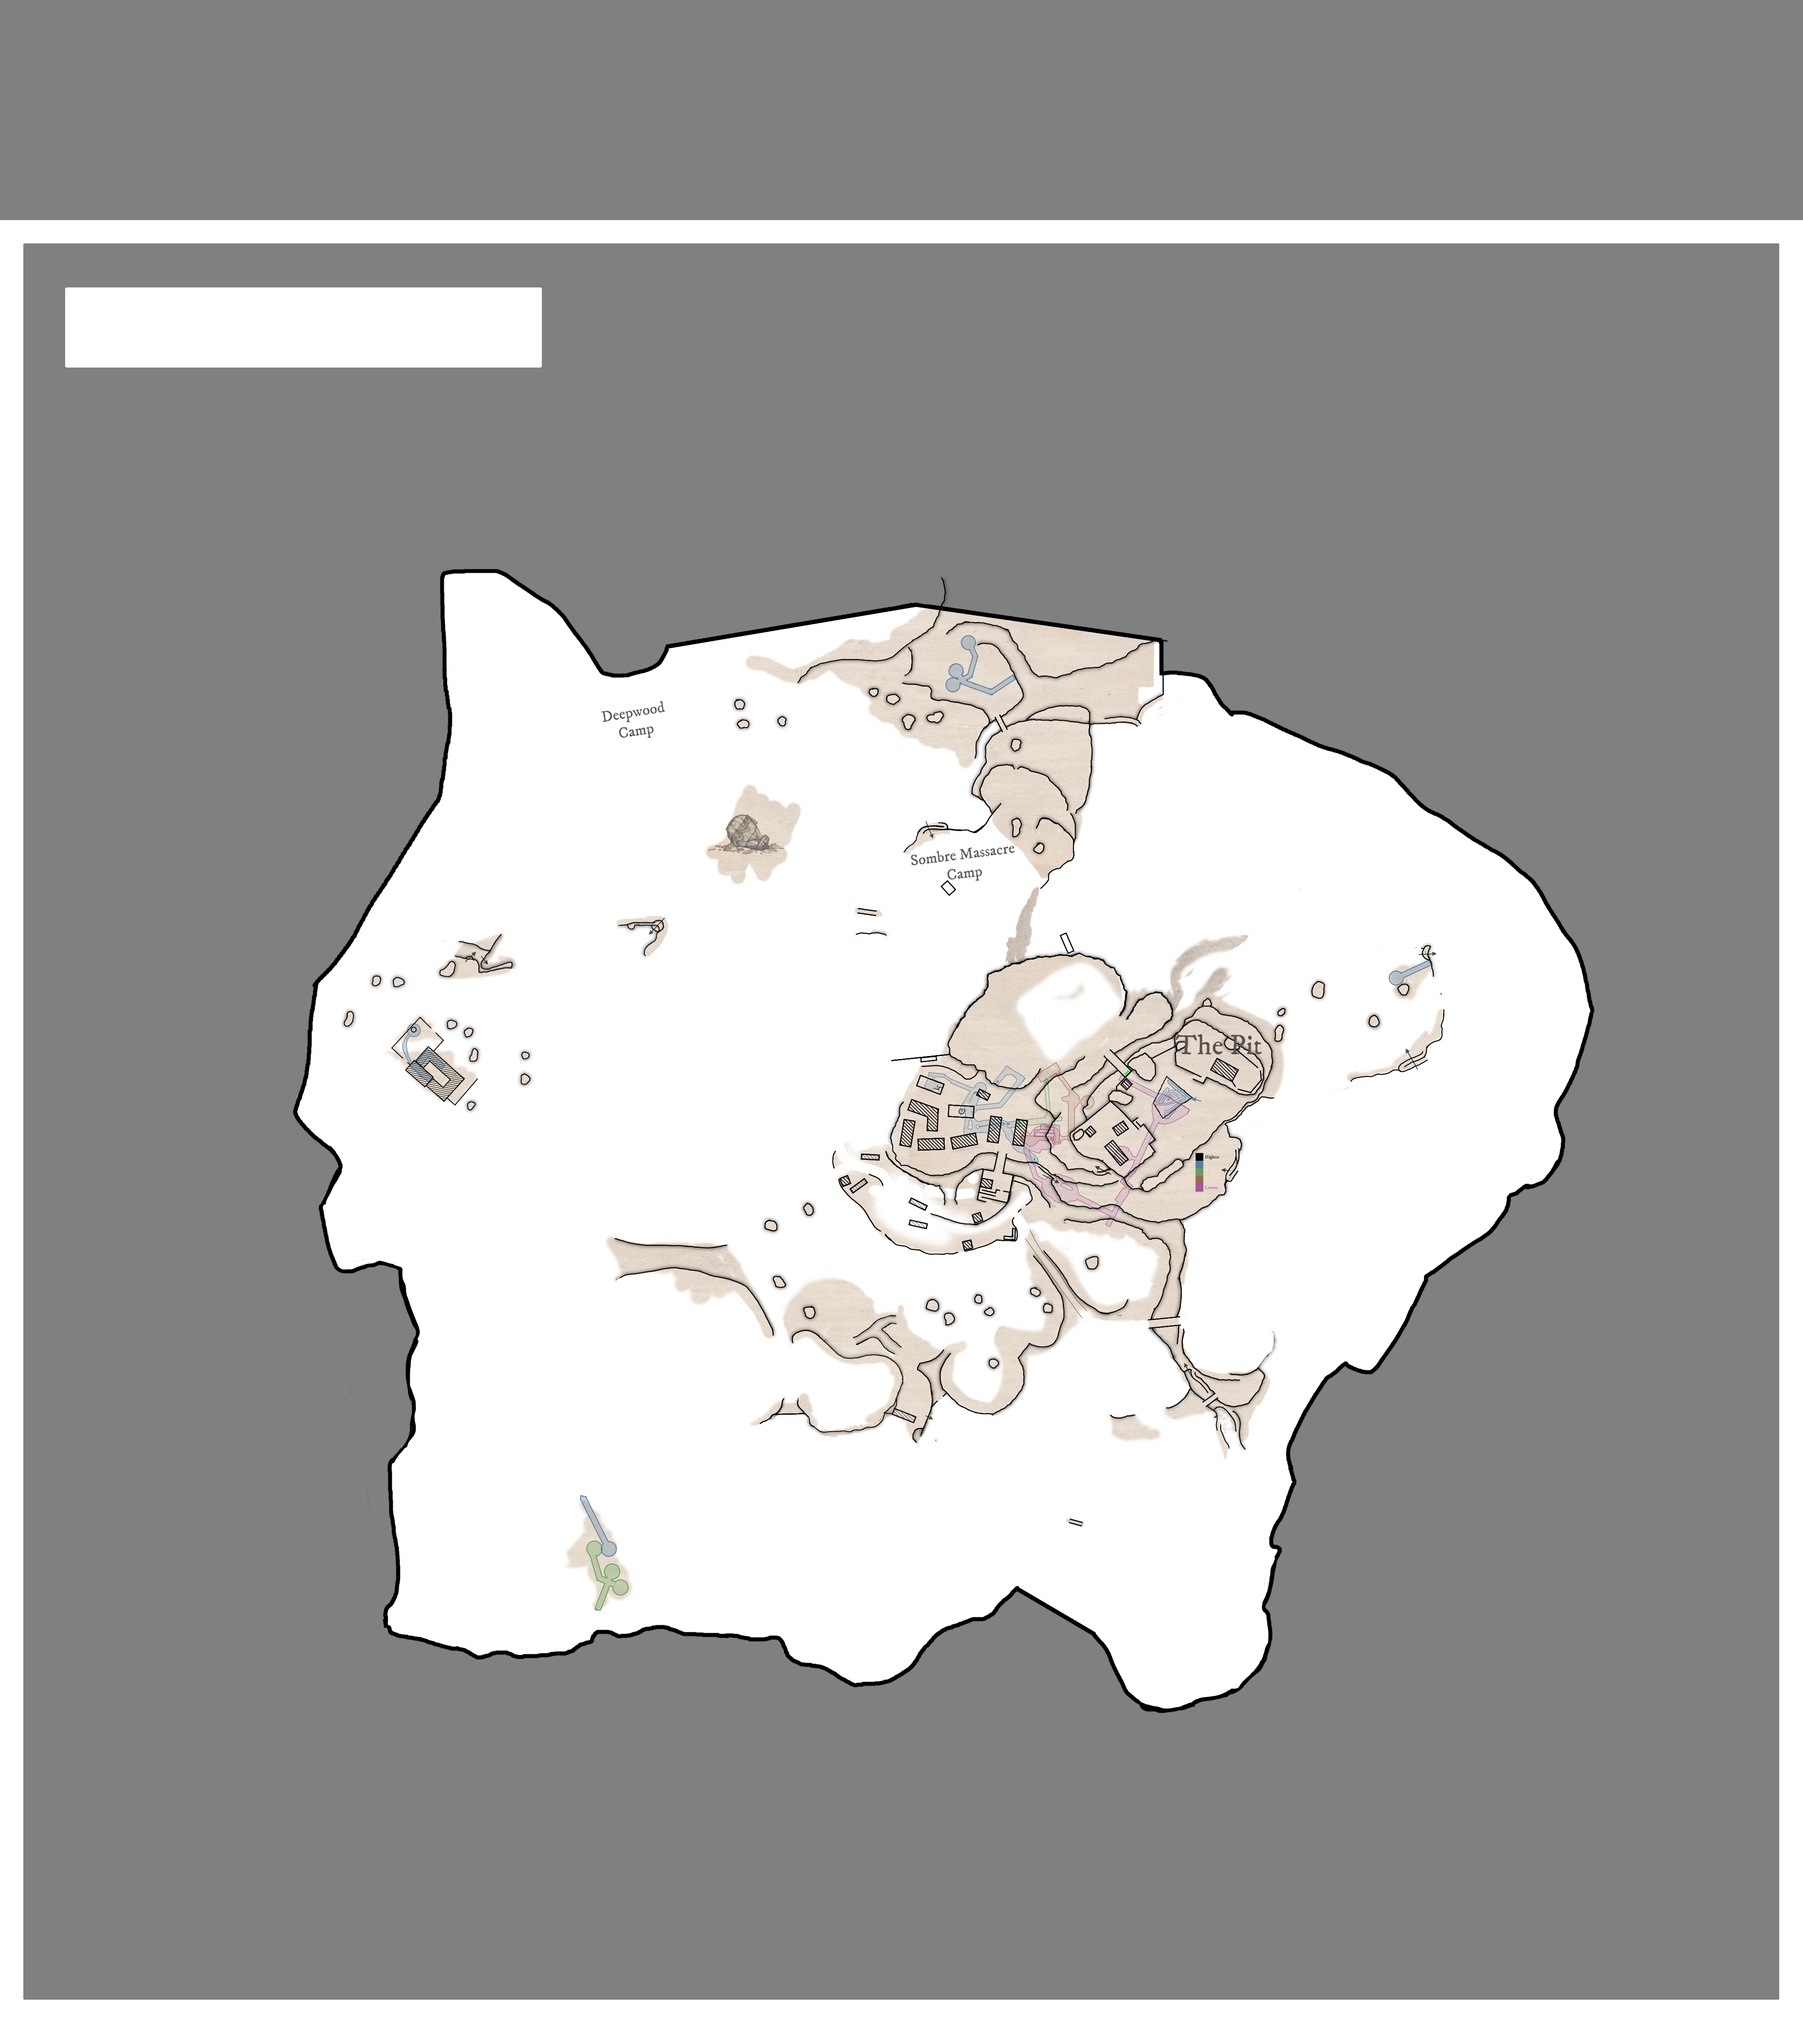
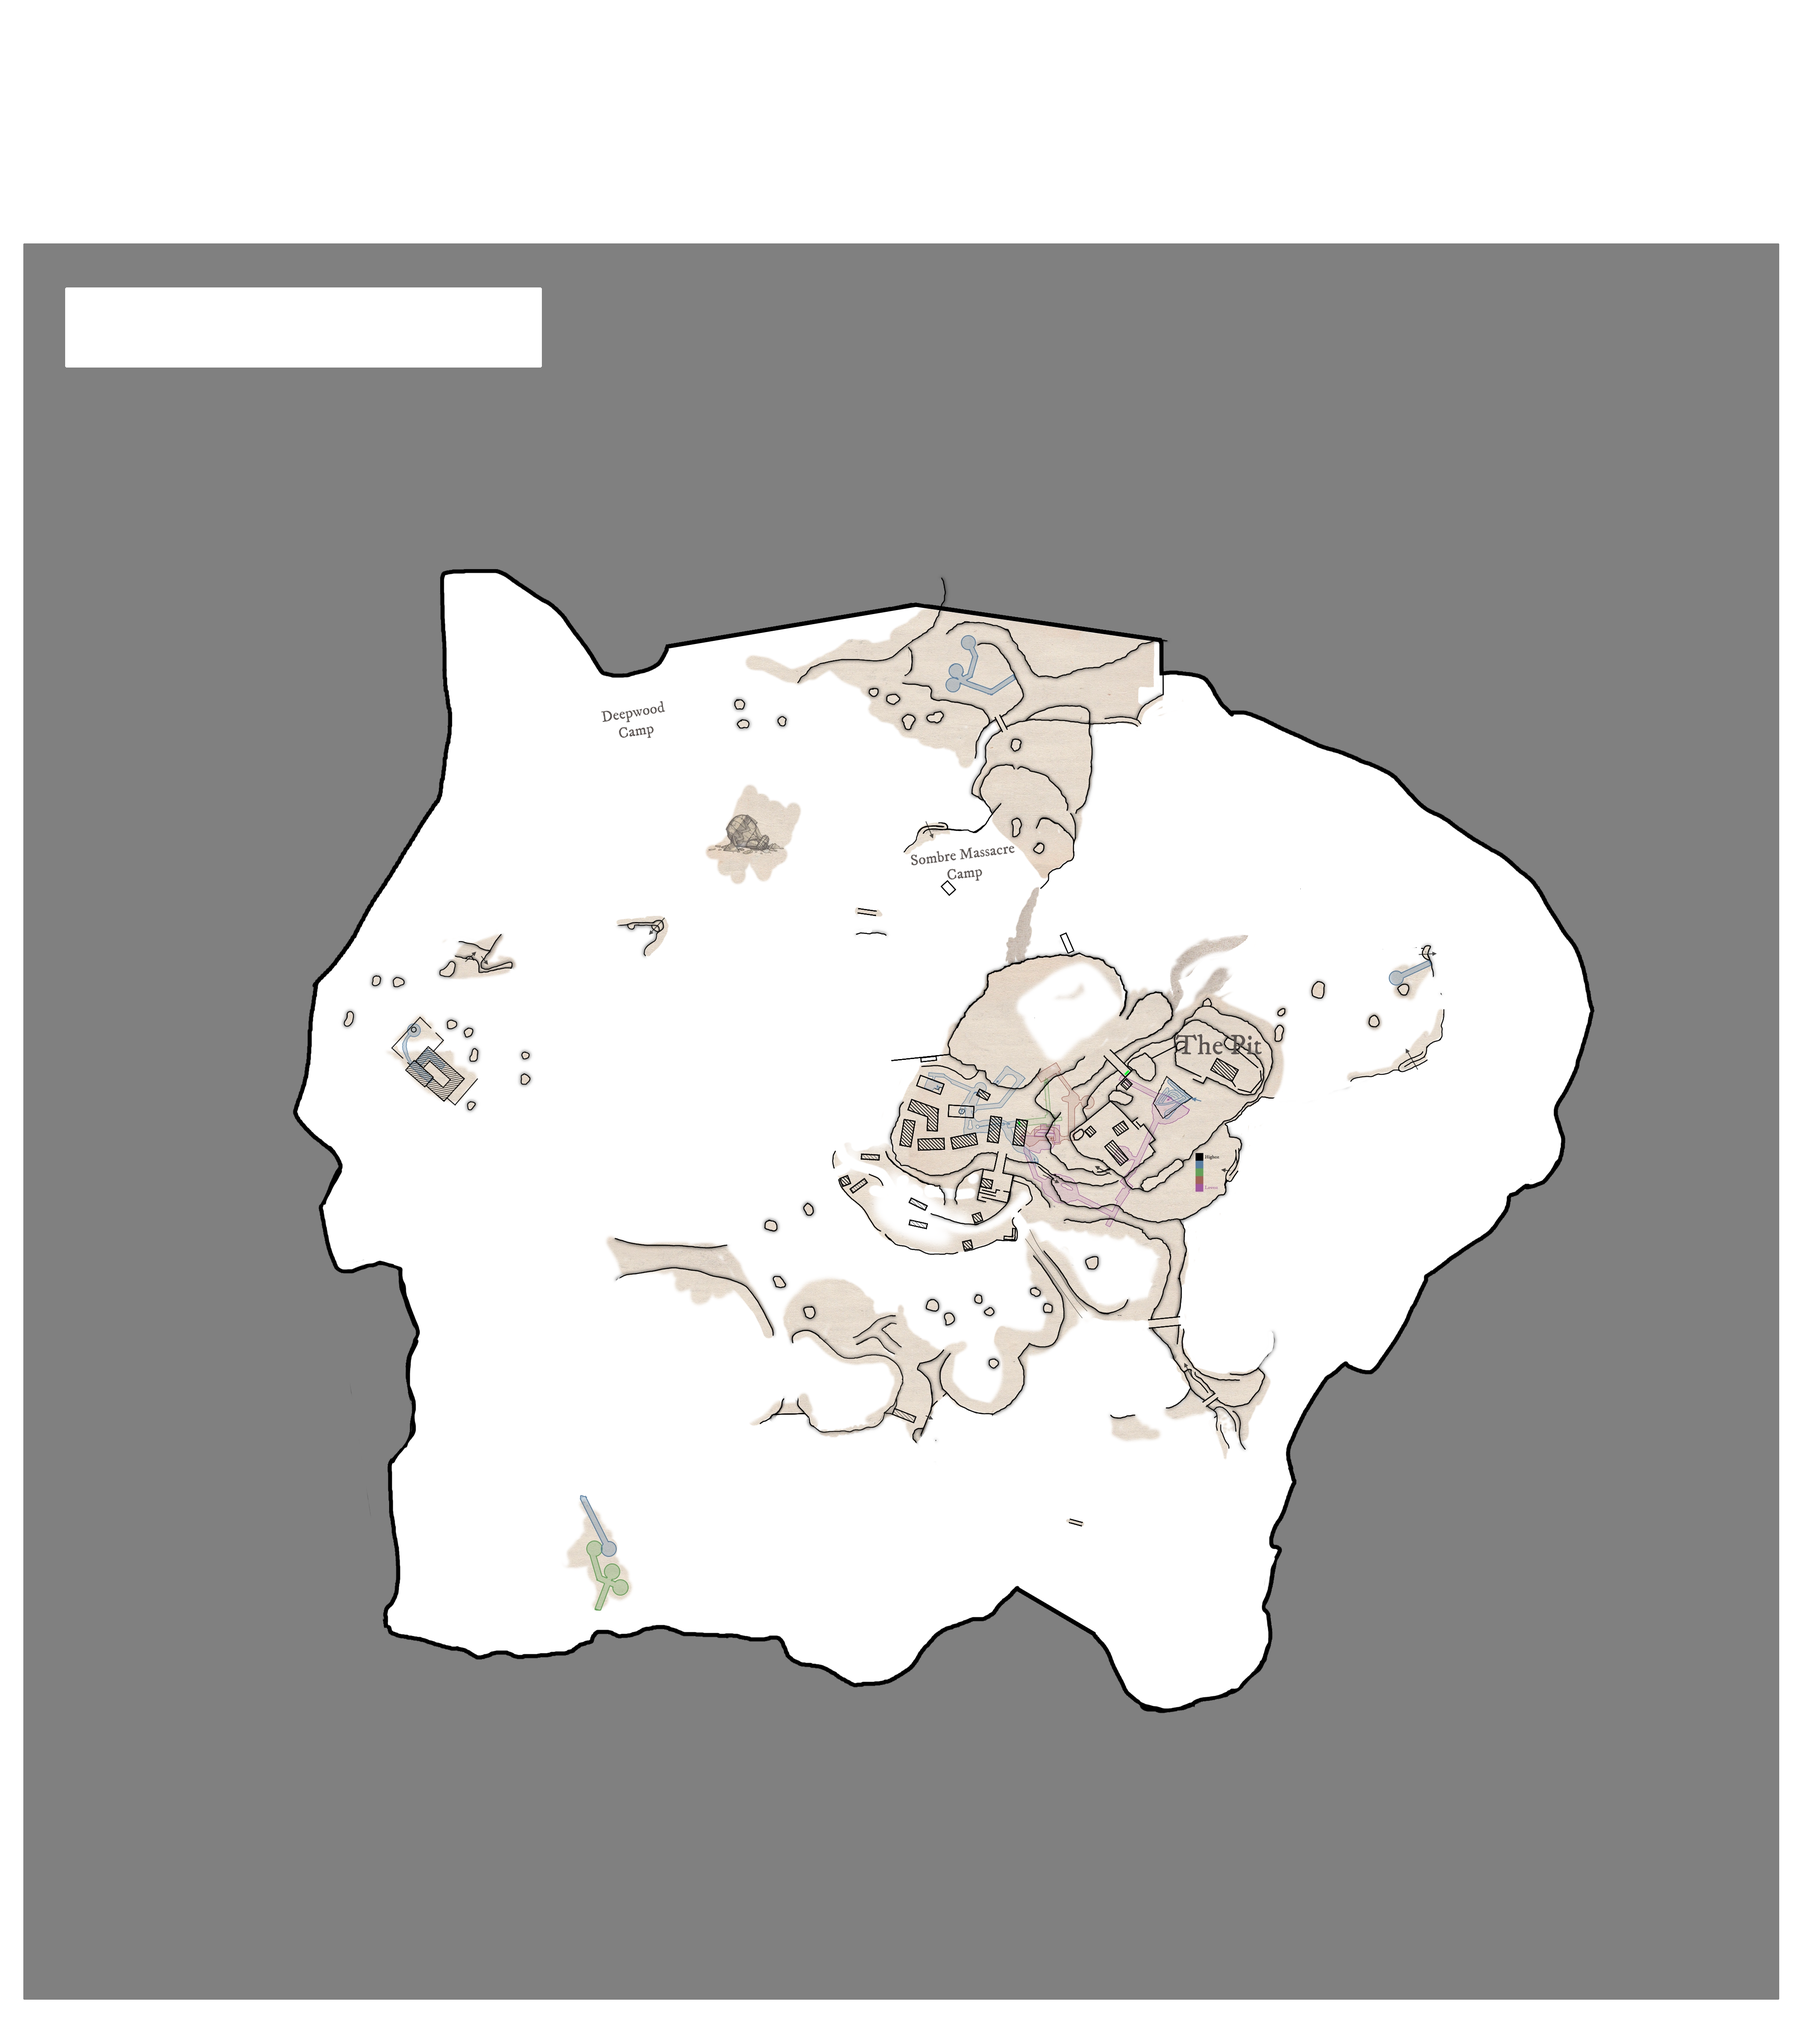
changes

Changed region(s): [[0.0, 0.0, 1.0, 0.1245]]

diff --git a/js/marker.js b/js/marker.js
@@ -176,7 +176,7 @@ class Marker {
             let hidden = 0;
             document.querySelectorAll("#tooltip .filterable[data-item]").forEach(el => {
                 const query = controls.searchBox.value.toLowerCase();
-                const rangeValue = [1/32, 1/128, 1/1000, 1/10000, 1/Infinity][controls.chanceRange.value];
+                const rangeValue = [1/32, 1/128, 1/1024, 1/8192, 1/Infinity][controls.chanceRange.value];
                 const item = data.ITEMS[el.dataset.item];
                 if ((item?.DisplayName?.toLowerCase()?.includes(query) || item?.ItemName?.toLowerCase()?.includes(query))
                      && Number(el.dataset.percent) / 100 >= rangeValue) {
@@ -399,10 +399,11 @@ class Marker {
     }
 
     #percentColor(percent) {
-        const ratio = Math.trunc(100 / Number(percent));
+        const ratio = 100 / Number(percent);
         if (isNaN(ratio) || !isFinite(ratio)) return "rgb(0, 0, 0)";
-        if (ratio >= 10000) return "rgb(181 0 0)"; // Extremely rare
-        if (ratio >= 1000) return "rgb(255, 98, 98)"; // Very rare
+        if (ratio === 1) return "rgb(175, 238, 238)"; // Always
+        if (ratio >= 8192) return "rgb(181 0 0)"; // Extremely rare
+        if (ratio >= 1024) return "rgb(255, 98, 98)"; // Very rare
         if (ratio >= 128) return "rgb(255, 134, 60)"; // Rare
         if (ratio >= 32) return "rgb(255, 237, 76)"; // Uncommon
         return "rgb(86, 225, 86)"; // Common
@@ -550,7 +551,7 @@ class Marker {
         if (this.#row.AISpawner) {
             rows.push(`<tr><td><strong>AISpawner</strong></td><td>${this.#row.AISpawner}</td></tr>`)
         }
-        let tableData = this.tableData;
+        const tableData = this.tableData;
         if (tableData) {
             if (this.#class === "npc") {
                 rows.push(`<tr><td style="text-wrap:nowrap"><strong>Est. Markup</strong></td><td>x4.2</td></tr>`)
@@ -565,7 +566,9 @@ class Marker {
                     rows.push(`<tr><td colspan="2" class="loot-subtable"><table class="marker-info-table table table-sm table-striped mb-0">${subrows.join("")}</table></td></tr>`)
                 }
             })
-            rows.push(this.#valueRow("Est. Avg. Value", this.#estValue.loot))
+        }
+        if (this.estValue) {
+            rows.push(this.#valueRow("Est. Avg. Value", this.estValue))
         }
         const hasItems = rows.some(row => row.includes('class="loot-row"'));
         return `<div class="marker-tooltip${hasItems ? " has-items" : ""}"><h5>${this.#readable.displayName}</h5><div class="table-responsive" style="max-height: 200px"><table class="marker-info-table table table-sm table-striped mb-0">${rows.join("")}</table></div></div>`
@@ -585,7 +588,7 @@ class Marker {
             child.anchor.set(0.5);
             child.x = sprite.x;
             child.y = sprite.y;
-            child.zIndex = sprite.zIndex + 1;
+            child.zIndex = 1000;
             child._screenSize = 48
             this.#container.addChild(child);
 
@@ -631,6 +634,7 @@ class Marker {
 
                 // Greater than 6 silver mark as good
                 if (this.estValue > 600) {
+                    this.#tint = 0xFFF0B2;
                     this.#zIndex = 100;
                     this.#descriptors.push("good");
                 }

diff --git a/js/data.js b/js/data.js
@@ -221,7 +221,7 @@ lootTables.forEach(row => {
 
 console.log("Loaded loot tables:", LOOT_TABLES);
 
-function combineTables(sources) {
+function combineTables(sourceName, sources) {
     const combinedByObjectName = new Map()
 
     sources.forEach(source => {
@@ -233,6 +233,7 @@ function combineTables(sources) {
         const copy = []
         copy.push(...table.map(entry => ({ ...entry })));
         copy.forEach(entry => {
+            const percentNote = Number(source["WeightPercent"]).toFixed(2) + "% " + Number(entry["WeightPercent"]).toFixed(2) + "% " + source["TableName"];
             const weight = 1000 * (Number(entry["WeightPercent"] || 1) / 100) * ((Number(source["WeightPercent"]) || 1) / 100)
             const objectName = entry["ObjectName"]
 
@@ -240,7 +241,8 @@ function combineTables(sources) {
                 combinedByObjectName.set(objectName, {
                     ...entry,
                     Weight: weight,
-                    TableName: entry["TableName"] ? [entry["TableName"]] : []
+                    TableName: entry["TableName"] ? [entry["TableName"]] : [],
+                    Notes: percentNote ? [percentNote] : [],
                 })
                 return
             }
@@ -249,7 +251,7 @@ function combineTables(sources) {
             existing["Weight"] = (Number(existing["Weight"]) || 0) + weight
 
             if (entry["TableName"] && !existing["TableName"].includes(entry["TableName"])) {
-                existing["TableName"].push(entry["TableName"])
+                existing["Notes"].push(entry["Notes"])
             }
         })
     })
@@ -282,7 +284,7 @@ lootSources.forEach(row => {
 lootSources.forEach(row => {
     if (!row.SourceName) return;
     console.log("Processing loot source:", row.SourceName);
-    if (!LOOT_SOURCE_TABLES[row.SourceName]) LOOT_SOURCE_TABLES[row.SourceName] = combineTables(LOOT_SOURCES[row.SourceName]);
+    if (!LOOT_SOURCE_TABLES[row.SourceName]) LOOT_SOURCE_TABLES[row.SourceName] = combineTables(row.SourceName, LOOT_SOURCES[row.SourceName]);
 })
 
 const aiTables = await getAiCsvData("./data/ai_tables.csv?v=" + elements.metaVersion);

diff --git a/js/main.js b/js/main.js
@@ -90,6 +90,7 @@ import {controls, dom_ready, elements, refreshLabels} from "dom";
 
         loadMultiselectF(controls.lootSourceSelect, marker => {
             if (!(marker.row.LootSource || "container" === marker.class)) return;
+            if ("loose" === marker.class) return;
             return marker.row.LootSource
         }, lootTable => {
             const largest = markers
@@ -302,7 +303,7 @@ import {controls, dom_ready, elements, refreshLabels} from "dom";
         updateChanceText();
         applySearch();
     });
-    const chanceText = ["Common <= 1/32", "Uncommon <= 1/128", "Rare <= 1/1,000", "Very Rare <= 1/10k", "Everything"]
+    const chanceText = ["Common <= 1/32", "Uncommon <= 1/128", "Rare <= 1/1,024", "Very Rare <= 1/8,192", "Everything"]
     const updateChanceText = () => elements.divChanceRange.innerHTML = chanceText[controls.chanceRange.value]
     updateChanceText()
     controls.enableHeightFilter.addEventListener("change", applySearch);

diff --git a/index.html b/index.html
@@ -122,7 +122,7 @@
                     <h6 class="mb-0">
                         Search
                         <i class="bi bi-info-circle" data-bs-toggle="tooltip" data-bs-placement="right" data-bs-html="true"
-                           title="<strong>Special Keywords</strong>: breakable, good, location, locked, profession, quest"></i>
+                           title="<strong>Special Keywords</strong>: breakable, good, great, location, locked, profession, quest"></i>
                     </h6>
                     <input class="form-control mb-1 mt-1" type="text" id="searchBox" placeholder="Type to filter...">
                     <div class="form-check">
